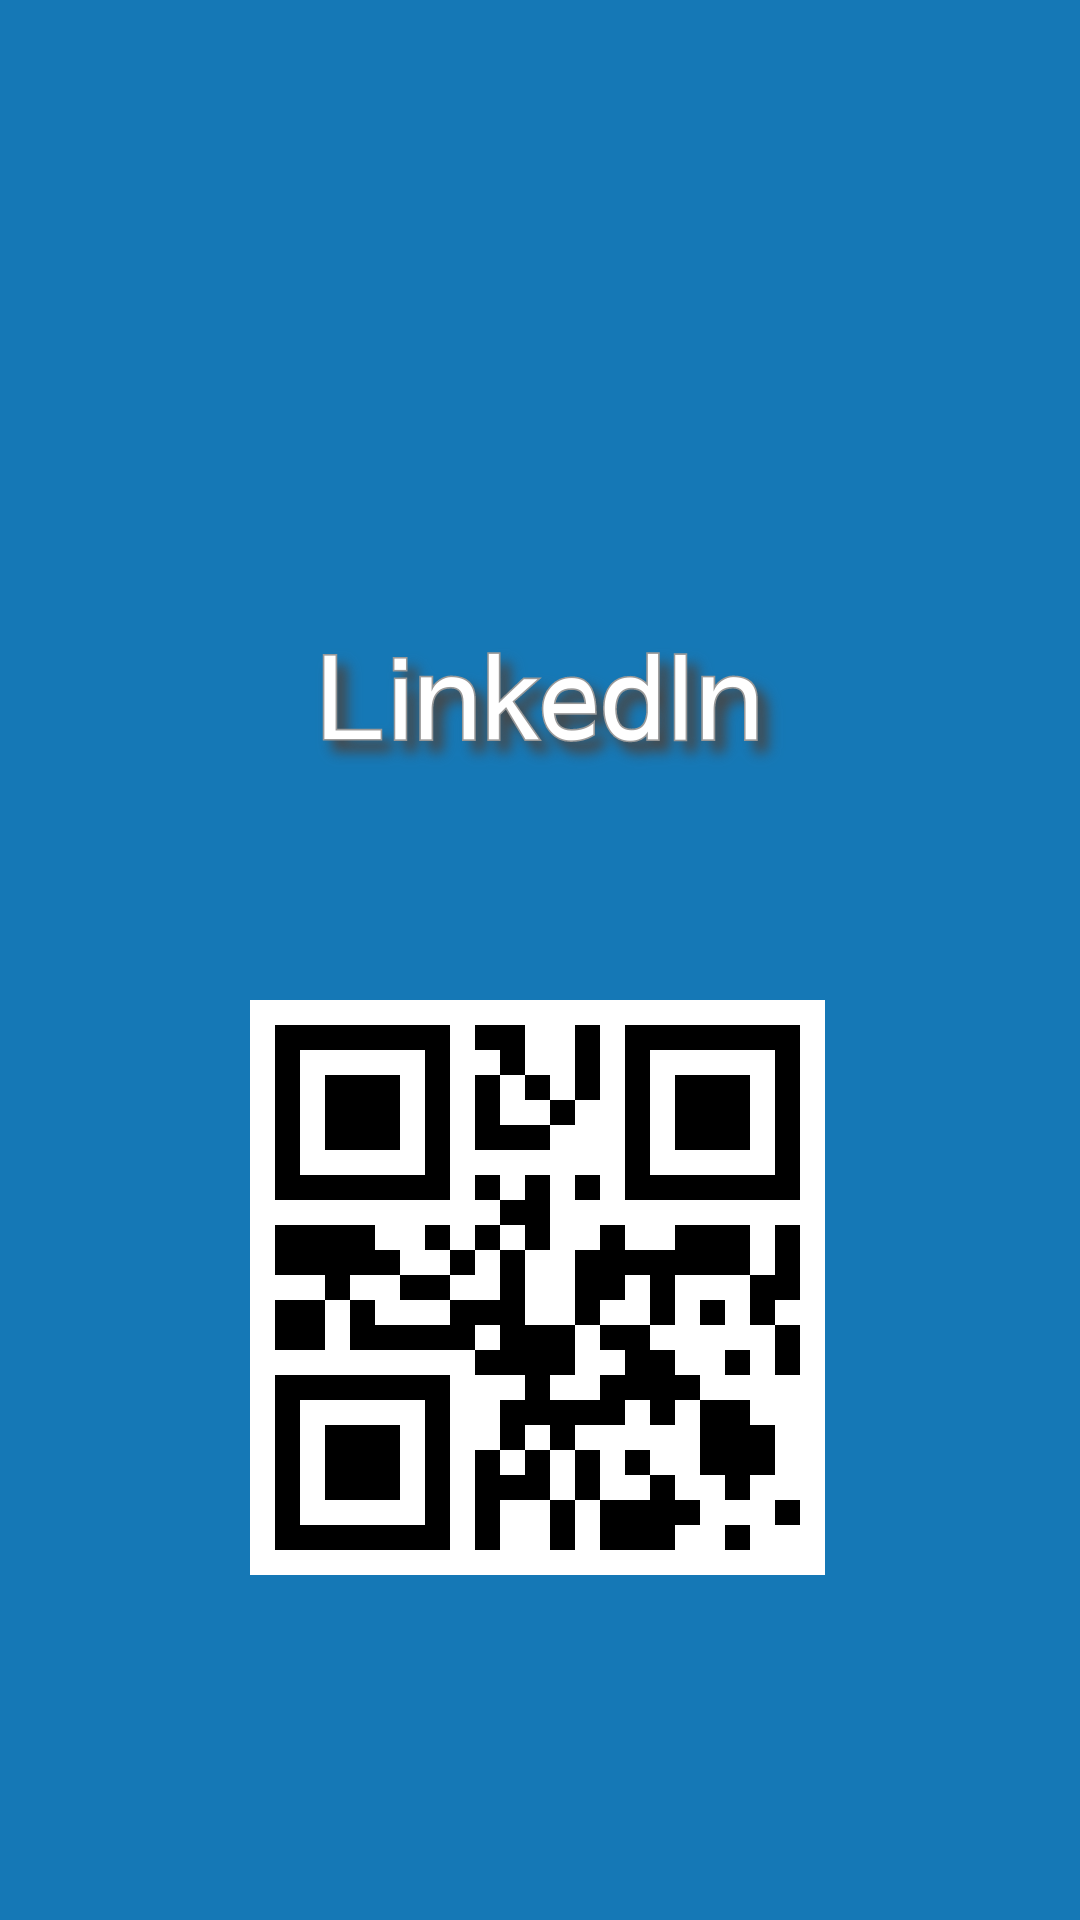
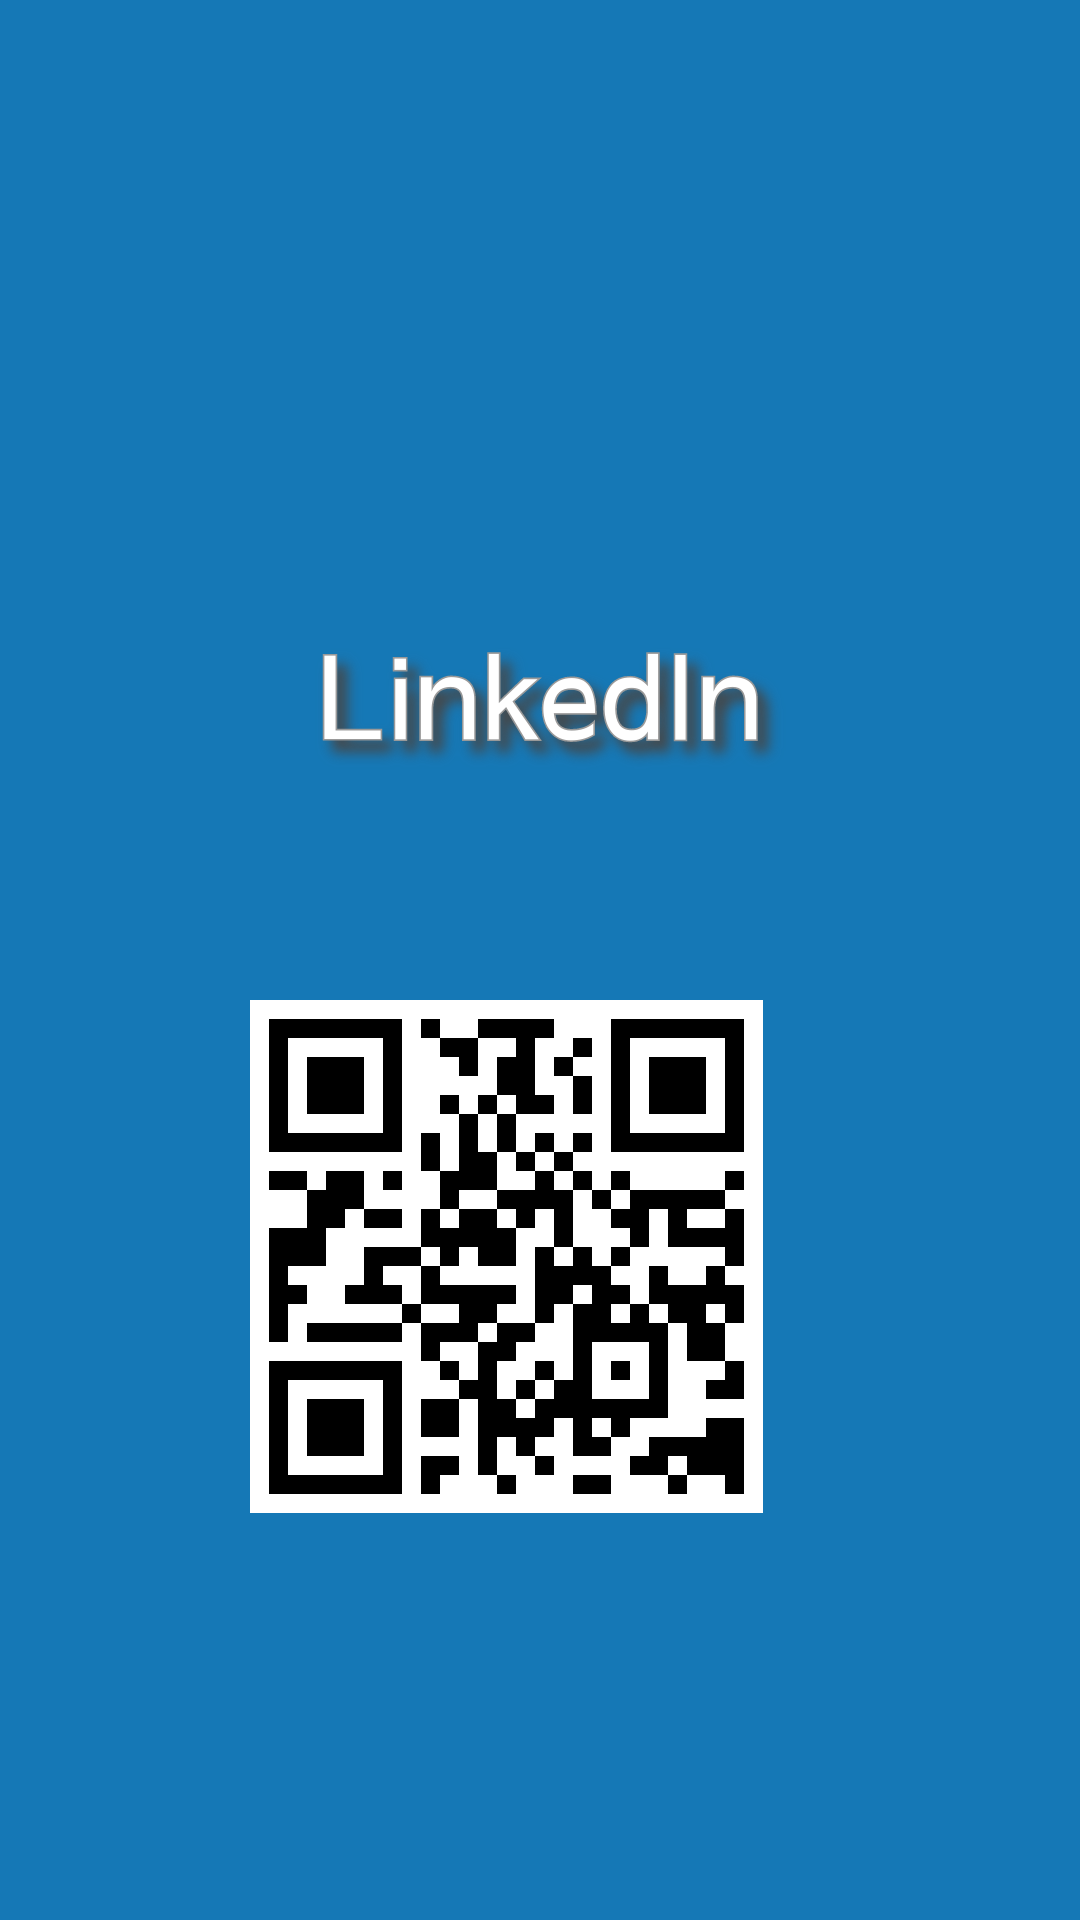
Update

Changed region(s): [[0.2139, 0.5, 0.7639, 0.8438]]

diff --git a/qr_code_generator.py b/qr_code_generator.py
@@ -2,13 +2,14 @@ import qrcode
 
 # Enter link to genrate qr code
 # link = input("Enter your LinkedIn Profile URL: ")
-link = "Hello World!"
+link = "https://www.linkedin.com/"
 
+# Edit the size of the qr code box and border
 qr = qrcode.QRCode(
-    version=1,
+    version = 1,
     error_correction=qrcode.constants.ERROR_CORRECT_L,
-    box_size=25,
-    border=1,
+    box_size = 19,
+    border = 1,
 )
 
 qr.add_data(link)

diff --git a/qr_code_overlay.py b/qr_code_overlay.py
@@ -5,7 +5,7 @@ overlay_position = (250, 1000)
 
 background_img = Image.open("background.png")
 
-overlay_img = Image.open("myqrcode.png").convert("RGBA")
+overlay_img = Image.open("qrcode.png").convert("RGBA")
 
 background_img.paste(overlay_img, overlay_position, overlay_img)
 

diff --git a/README.md b/README.md
@@ -1,2 +1,23 @@
 # QR-Code-Wallpaper
-A QR Code wallpaper maker, the current example I'm using is for LinkedIn.
+This Python script generates a QR code and overlays it onto a background image. The resulting image can be used as a custom wallpaper.
+
+The background was made using Adobe Express.
+
+First run `qr_code_generator.py` to create the qr code.
+
+Then run `qr_code_overlay.py` to add the newly created qr code to the background.
+
+## Prerequisites
+- Python 3.x
+- Install required libraries:
+
+  ```bash
+  pip install qrcode
+
+## Customization
+Adjust the script parameters in `qr_code_generator.py`:
+box_size: Size of the QR code box.
+border: Border around the QR code.
+overlay_position: Position to place the QR code on the background image.
+
+
